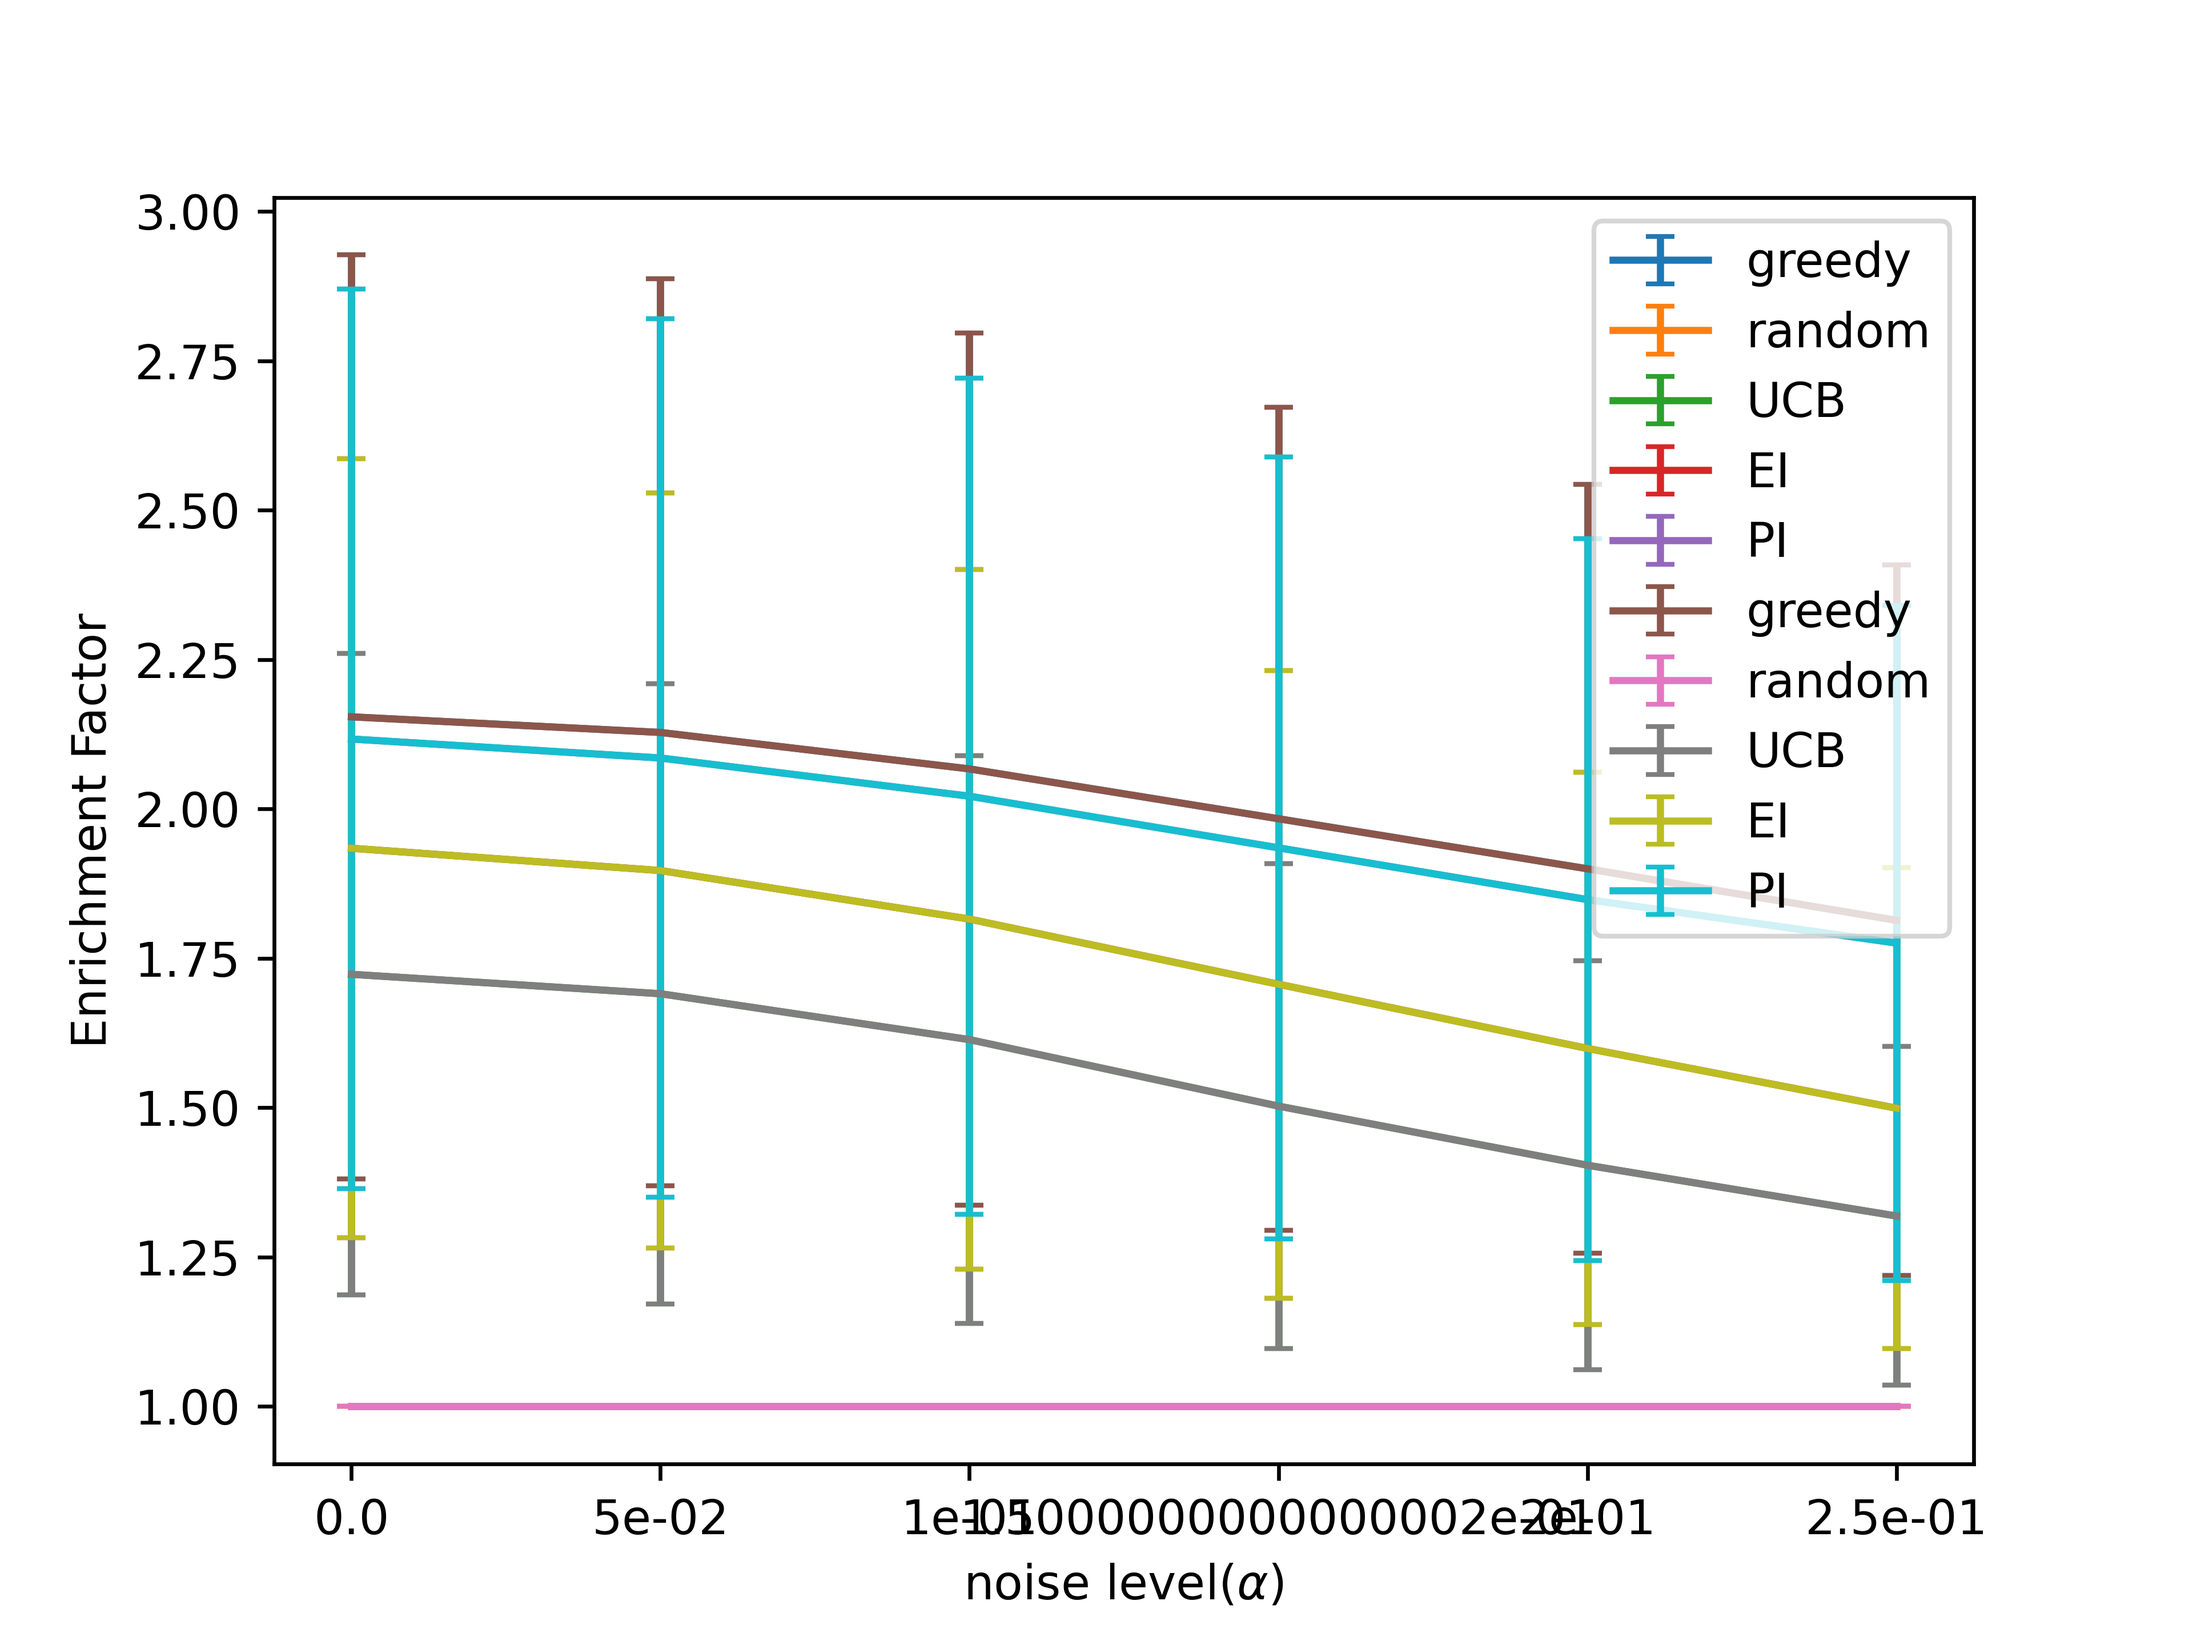
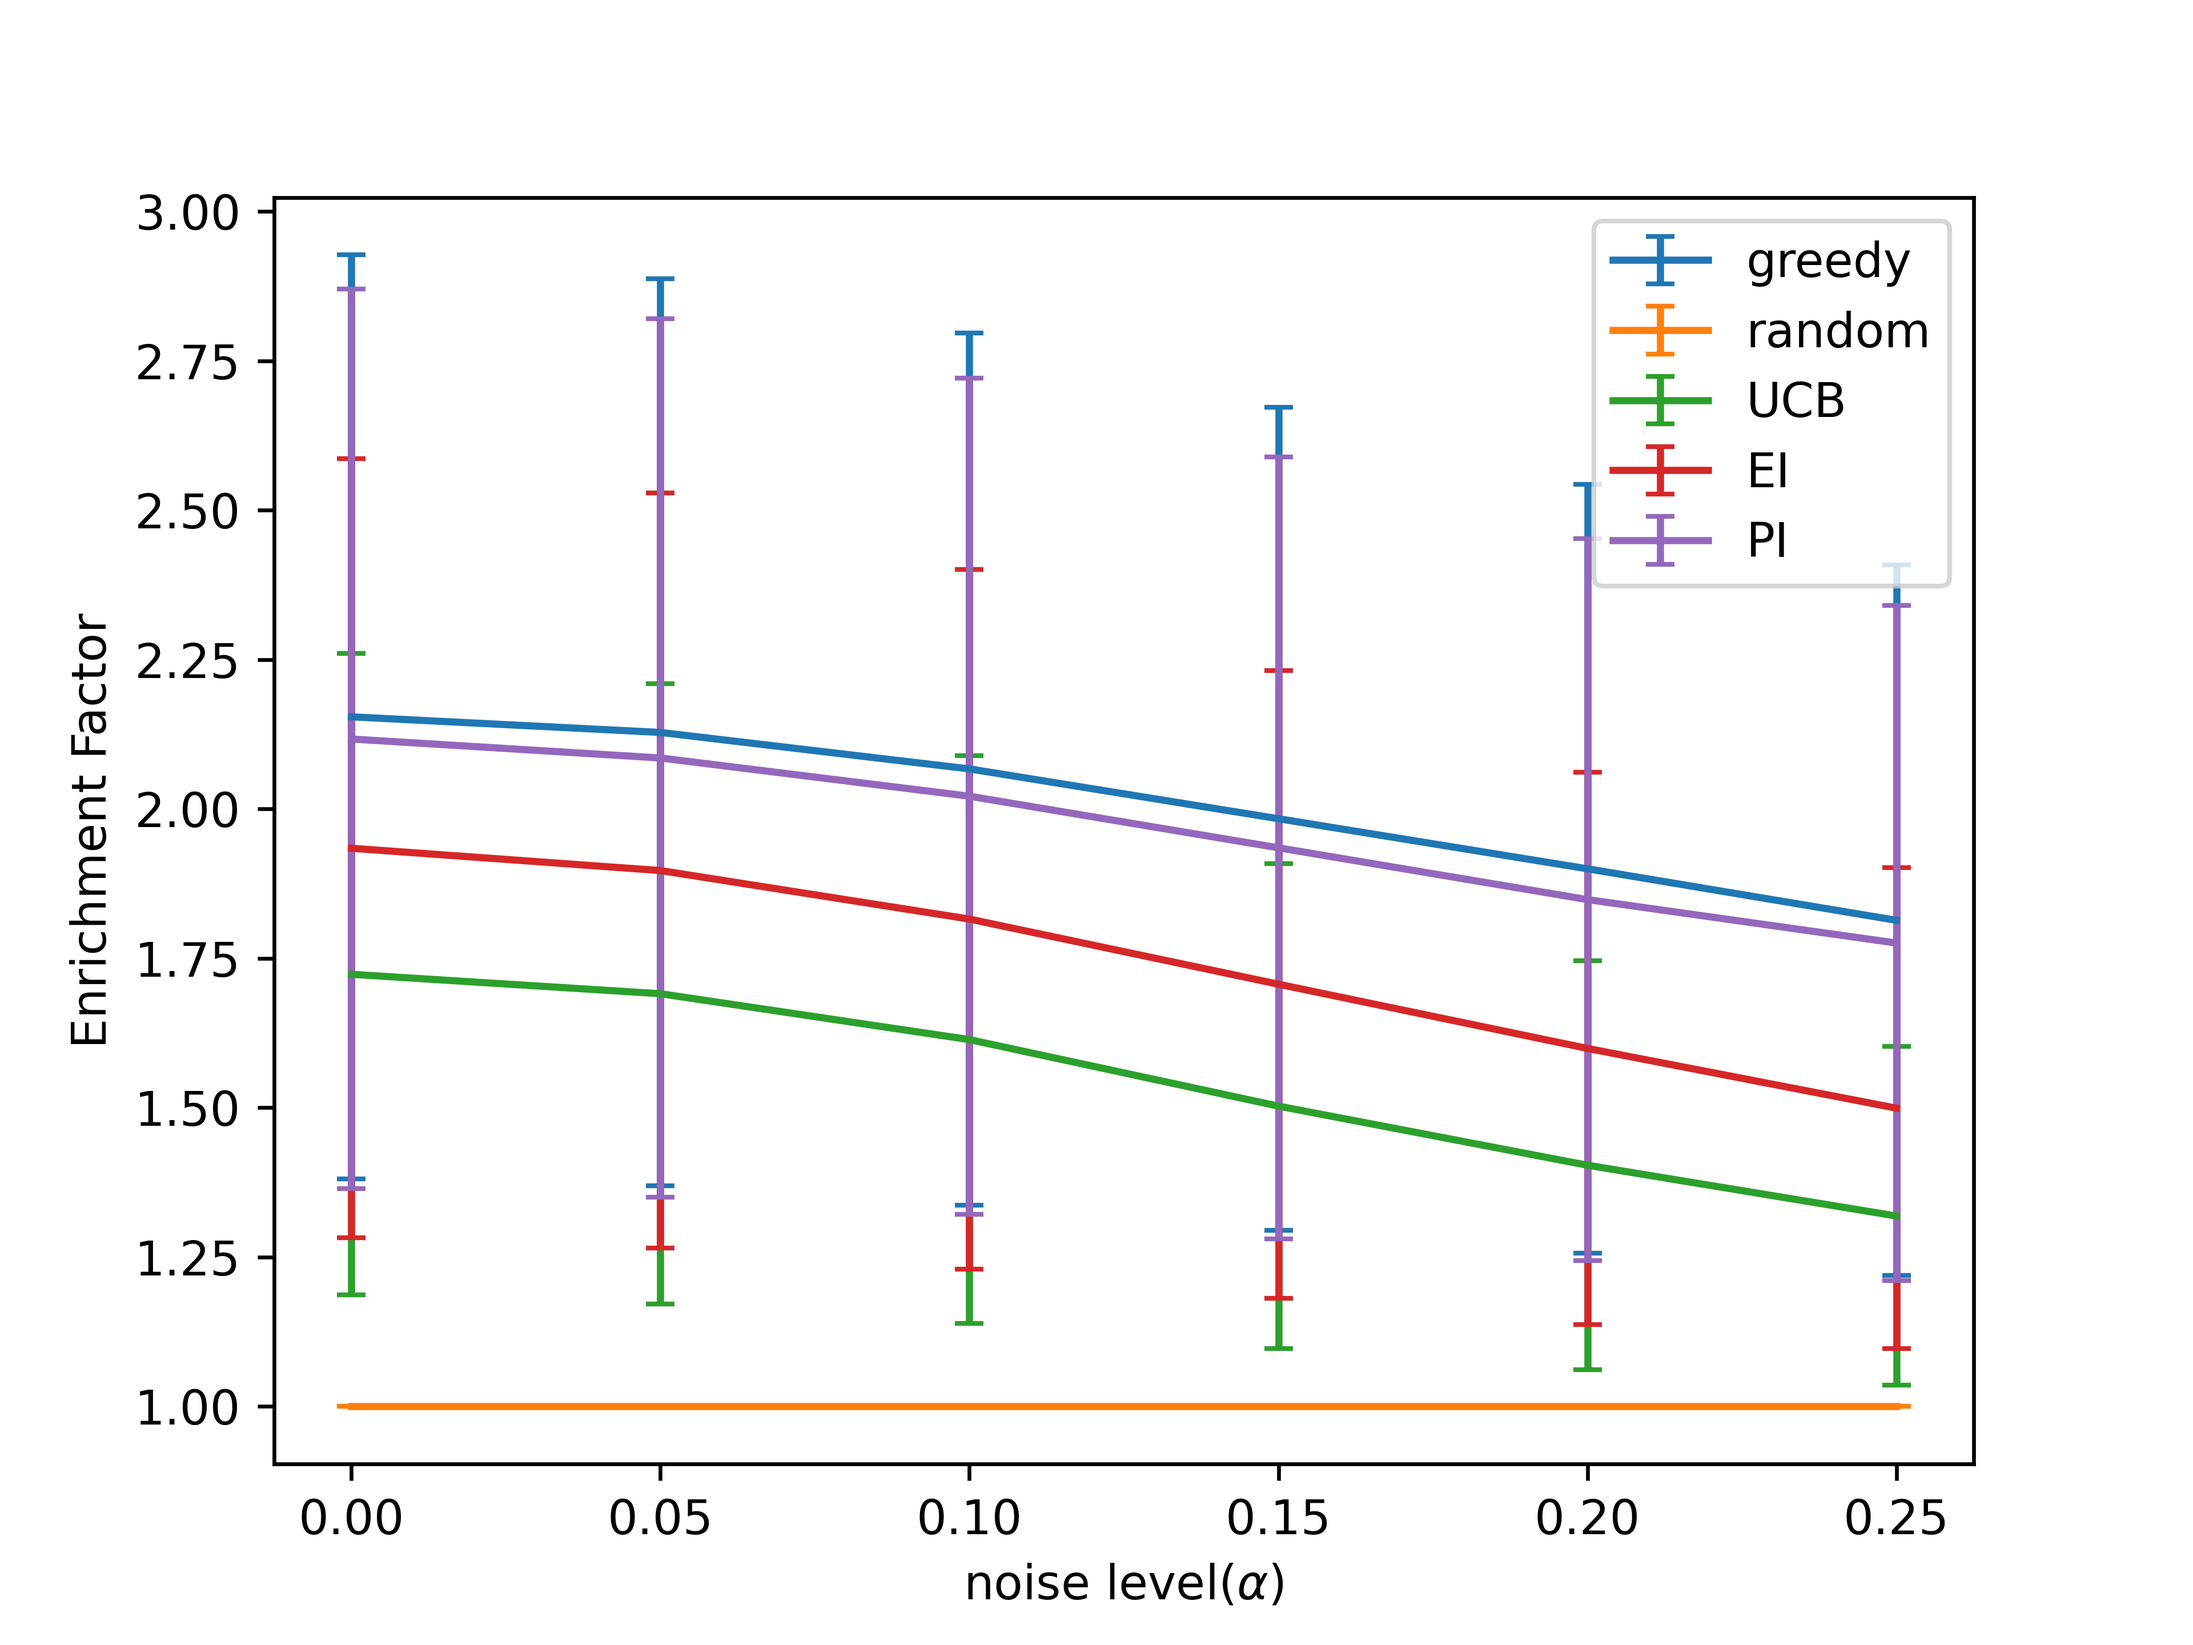
graph test

diff --git a/real_data_results.py b/real_data_results.py
@@ -59,7 +59,7 @@ def figure6_graph():
     
     filename = open('figures/'+str(percent)+'%summarised/figure6.pkl','rb')
     all_res, all_var = pickle.load(filename)
-    noise_levels = ['0.0', '5e-02', '1e-01', '1.5000000000000002e-01','2e-01', '2.5e-01']
+    noise_levels = np.linspace(0,0.25,6)
     labels = ['greedy', 'random', 'UCB', 'EI', 'PI']
         
     for i in labels:
@@ -70,7 +70,7 @@ def figure6_graph():
     plt.legend()
     plt.savefig('figures/real'+str(percent)+'%/fig6.png', dpi=600)
     plt.show()
-    
+    return(all_res, all_var)    
    
 
 def figure7_data():
